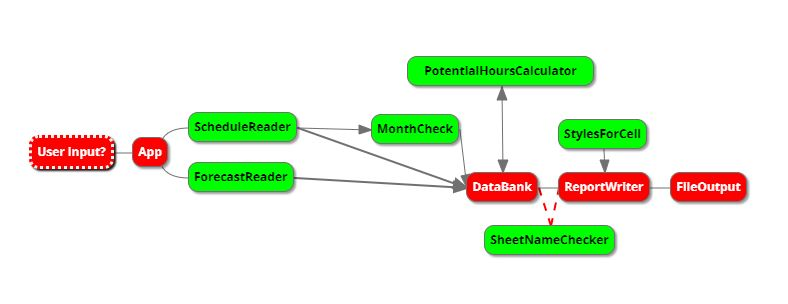
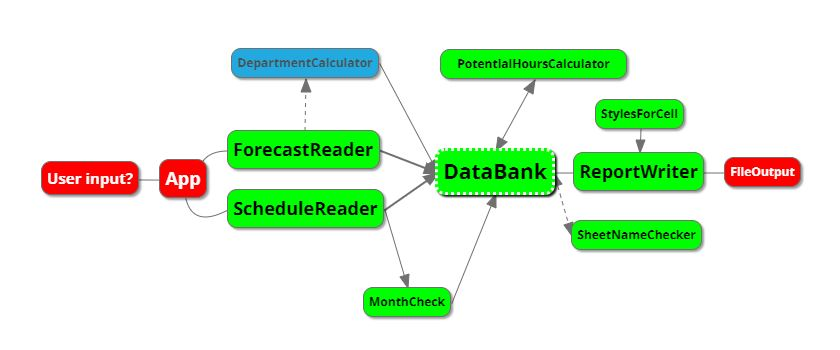
added method to write ALL retail departments

diff --git a/src/test/java/org/AgendaCheck/AppTest.java b/src/test/java/org/AgendaCheck/AppTest.java
@@ -1,11 +1,12 @@
 package org.AgendaCheck;
 
+import org.apache.poi.openxml4j.exceptions.InvalidFormatException;
+import org.apache.poi.openxml4j.opc.OPCPackage;
 import org.apache.poi.xssf.usermodel.XSSFWorkbook;
 import org.junit.Before;
 import org.junit.Test;
 
 import java.io.File;
-import java.io.FileInputStream;
 import java.io.FileOutputStream;
 import java.io.IOException;
 
@@ -18,10 +19,15 @@ public class AppTest {
     }
 
     @Test
-    public void shouldCreateReportForJune() throws IOException {
+    public void shouldCreateReportForJune() throws IOException, InvalidFormatException {
 
-        XSSFWorkbook schedule = new XSSFWorkbook(new FileInputStream("godzinyCzerwiec.xlsx"));
-        XSSFWorkbook forecast = new XSSFWorkbook(new FileInputStream("643_Gessef 2020.xlsx"));
+        OPCPackage scheduleInput = OPCPackage.open(new File("SampleInputFiles/godzinyCzerwiec.xlsx"));
+        XSSFWorkbook schedule = new XSSFWorkbook(scheduleInput);
+        scheduleInput.close();
+
+        OPCPackage forecastInput = OPCPackage.open(new File("SampleInputFiles/643_Gessef 2020.xlsx"));
+        XSSFWorkbook forecast = new XSSFWorkbook(forecastInput);
+        forecastInput.close();
 
         XSSFWorkbook report = new XSSFWorkbook();
 
@@ -30,17 +36,23 @@ public class AppTest {
         DataBank dataBank = new DataBank(scheduleReader, forecastReader);
         ReportWriter reportWriter = new ReportWriter(report, dataBank);
 
-
+        reportWriter.writeStoreSheet();
+        reportWriter.writeAllDepartmentsSheets();
 
         report.write(new FileOutputStream("TestResults/Czerwiec643.xlsx"));
         report.close();
     }
 
     @Test
-    public void shouldCreateReportForMay() throws IOException {
+    public void shouldCreateReportForMay() throws IOException, InvalidFormatException {
 
-        XSSFWorkbook schedule = new XSSFWorkbook(new FileInputStream("godzinyMaj.xlsx"));
-        XSSFWorkbook forecast = new XSSFWorkbook(new FileInputStream("643_Gessef 2020.xlsx"));
+        OPCPackage scheduleInput = OPCPackage.open(new File("SampleInputFiles/godzinyMaj.xlsx"));
+        XSSFWorkbook schedule = new XSSFWorkbook(scheduleInput);
+        scheduleInput.close();
+
+        OPCPackage forecastInput = OPCPackage.open(new File("SampleInputFiles/643_Gessef 2020.xlsx"));
+        XSSFWorkbook forecast = new XSSFWorkbook(forecastInput);
+        forecastInput.close();
 
         XSSFWorkbook report = new XSSFWorkbook();
 
@@ -49,18 +61,23 @@ public class AppTest {
         DataBank dataBank = new DataBank(scheduleReader, forecastReader);
         ReportWriter reportWriter = new ReportWriter(report, dataBank);
 
-
-
+        reportWriter.writeStoreSheet();
+        reportWriter.writeAllDepartmentsSheets();
 
         report.write(new FileOutputStream("TestResults/Maj643.xlsx"));
         report.close();
     }
 
     @Test
-    public void shouldCreateReportForMayForStore729() throws IOException {
+    public void shouldCreateReportForMayForStore729() throws IOException, InvalidFormatException {
 
-        XSSFWorkbook schedule = new XSSFWorkbook(new FileInputStream("godzinyMaj.xlsx"));
-        XSSFWorkbook forecast = new XSSFWorkbook(new FileInputStream("729 Gessef 2020.xlsx"));
+        OPCPackage scheduleInput = OPCPackage.open(new File("SampleInputFiles/godzinyMaj729.xlsx"));
+        XSSFWorkbook schedule = new XSSFWorkbook(scheduleInput);
+        scheduleInput.close();
+
+        OPCPackage forecastInput = OPCPackage.open(new File("SampleInputFiles/729 Gessef 2020.xlsx"));
+        XSSFWorkbook forecast = new XSSFWorkbook(forecastInput);
+        forecastInput.close();
 
         XSSFWorkbook report = new XSSFWorkbook();
 
@@ -69,17 +86,23 @@ public class AppTest {
         DataBank dataBank = new DataBank(scheduleReader, forecastReader);
         ReportWriter reportWriter = new ReportWriter(report, dataBank);
 
-
+        reportWriter.writeStoreSheet();
+        reportWriter.writeAllDepartmentsSheets();
 
         report.write(new FileOutputStream("TestResults/Maj729.xlsx"));
         report.close();
     }
 
     @Test
-    public void shouldCreateReportForJuneForStore729() throws IOException {
+    public void shouldCreateReportForJuneForStore729() throws IOException, InvalidFormatException {
 
-        XSSFWorkbook schedule = new XSSFWorkbook(new FileInputStream("godzinyCzerwiec.xlsx"));
-        XSSFWorkbook forecast = new XSSFWorkbook(new FileInputStream("729 Gessef 2020.xlsx"));
+        OPCPackage scheduleInput = OPCPackage.open(new File("SampleInputFiles/godzinyCzerwiec729.xlsx"));
+        XSSFWorkbook schedule = new XSSFWorkbook(scheduleInput);
+        scheduleInput.close();
+
+        OPCPackage forecastInput = OPCPackage.open(new File("SampleInputFiles/729 Gessef 2020.xlsx"));
+        XSSFWorkbook forecast = new XSSFWorkbook(forecastInput);
+        forecastInput.close();
 
         XSSFWorkbook report = new XSSFWorkbook();
 
@@ -88,13 +111,11 @@ public class AppTest {
         DataBank dataBank = new DataBank(scheduleReader, forecastReader);
         ReportWriter reportWriter = new ReportWriter(report, dataBank);
 
-
-
+        reportWriter.writeStoreSheet();
+        reportWriter.writeAllDepartmentsSheets();
 
         report.write(new FileOutputStream("TestResults/Czerwiec729.xlsx"));
         report.close();
     }
-
-
 
 }

diff --git a/src/main/java/org/AgendaCheck/ReportWriter.java b/src/main/java/org/AgendaCheck/ReportWriter.java
@@ -7,6 +7,7 @@ import org.apache.poi.xssf.usermodel.XSSFWorkbook;
 
 import java.util.List;
 import java.util.Map;
+import java.util.Set;
 
 public class ReportWriter {
     private final XSSFWorkbook report;
@@ -20,8 +21,8 @@ public class ReportWriter {
         stylesForCell = StylesForCell.createCellStyles(report);
     }
 
-    public XSSFSheet createReportSheet(String sheetName) {
-        return report.createSheet(sheetName);
+    private void createReportSheet(String sheetName) {
+        report.createSheet(sheetName);
     }
 
     private void createRows(XSSFSheet reportSheet) {
@@ -75,7 +76,10 @@ public class ReportWriter {
         writeColumn("Różnica godzin", columnNrToWrite, dailyDifferenceInHoursToPerfectOnes, stylesForCell.get("defaultDoubleCellStyle"), reportSheet);
     }
 
-    public void writeStoreSheet(XSSFSheet reportSheet) {
+    public void writeStoreSheet() {
+        createReportSheet("Sklep");
+        XSSFSheet reportSheet = report.getSheet("Sklep");
+
         writeFirstColumnDays(reportSheet);
         writeForthColumnHours(reportSheet);
         writeFifthColumnHoursShare(reportSheet);
@@ -86,6 +90,9 @@ public class ReportWriter {
     }
 
     private <T> void writeColumn(String columnName, int columnNr, List<T> dataList, CellStyle mainStyle, XSSFSheet reportSheet) {
+        if (dataList.isEmpty()){
+            return;
+        }
 
         XSSFCell titleOfTurnOverColumn = reportSheet.getRow(1).createCell(columnNr);
         titleOfTurnOverColumn.setCellValue(columnName);
@@ -156,15 +163,35 @@ public class ReportWriter {
         writeColumn("Różnica godzin", columnNrToWrite, dailyDifferenceInHoursToPerfectOnes, stylesForCell.get("defaultDoubleCellStyle"), reportSheet);
     }
 
-    public void writeDepartmentSheet(String departmentNameFromForeCast, String departmentNameFromSchedule, XSSFSheet reportSheet) {
+    private void writeSingleDepartmentSheet(String departmentName, XSSFSheet reportSheet) {
 
         writeFirstColumnDays( reportSheet);
-        writeSecondDepartmentColumn(departmentNameFromForeCast, reportSheet);
+        writeSecondDepartmentColumn(departmentName, reportSheet);
         writeThirdColumnShareOfTurnOver(reportSheet);
-        writeForthDepartmentColumnHours(departmentNameFromSchedule, reportSheet);
-        writeFifthDepartmentColumnHoursShare(departmentNameFromSchedule, reportSheet);
-        writeSixthDepartmentColumnPerfectHours(departmentNameFromSchedule, reportSheet);
-        writeSeventhDepartmentColumnDifferenceInHours(departmentNameFromSchedule, reportSheet);
+        writeForthDepartmentColumnHours(departmentName, reportSheet);
+        writeFifthDepartmentColumnHoursShare(departmentName, reportSheet);
+        writeSixthDepartmentColumnPerfectHours(departmentName, reportSheet);
+        writeSeventhDepartmentColumnDifferenceInHours(departmentName, reportSheet);
+    }
+
+    public void writeAllDepartmentsSheets(){
+        Map<String, Double> turnover = dataBank.getMonthlyDepartmentTurnOver();
+        Map<String, List<Double>> hours = dataBank.getDailyDepartmentHoursByName();
+
+        DepartmentNameChecker.changeDepartmentNamesFromScheduleToThoseFromForecast(turnover, hours);
+
+        Set<String> departmentNames = turnover.keySet();
+
+        for (String departmentName : departmentNames) {
+
+            if (!hours.containsKey(departmentName)){
+                continue;
+            }
+
+            createReportSheet(departmentName);
+            writeSingleDepartmentSheet(departmentName, report.getSheet(departmentName));
+        }
+
     }
 
 

diff --git a/src/main/java/org/AgendaCheck/App.java b/src/main/java/org/AgendaCheck/App.java
@@ -2,7 +2,6 @@ package org.AgendaCheck;
 
 import org.apache.poi.openxml4j.exceptions.InvalidFormatException;
 import org.apache.poi.openxml4j.opc.OPCPackage;
-import org.apache.poi.xssf.usermodel.XSSFSheet;
 import org.apache.poi.xssf.usermodel.XSSFWorkbook;
 
 import java.io.File;
@@ -28,13 +27,8 @@ public class App {
         DataBank dataBank = new DataBank(scheduleReader, forecastReader);
         ReportWriter reportWriter = new ReportWriter(report, dataBank);
 
-
-        XSSFSheet store = reportWriter.createReportSheet("Sklep");
-        reportWriter.writeStoreSheet(store);
-
-        XSSFSheet department = reportWriter.createReportSheet("BieganieOXELO");
-        reportWriter.writeDepartmentSheet("BieganieOXELO", "(643.8) Bieganie", department);
-
+        reportWriter.writeStoreSheet();
+        reportWriter.writeAllDepartmentsSheets();
 
         report.write(new FileOutputStream("SampleOutputReport.xlsx"));
         report.close();

diff --git a/README.md b/README.md
@@ -20,14 +20,13 @@ It takes data from to .xlsx files and creates new report.
 
 # Główne założenia
 
-- program pobiera rozkładu godzin na dni miesiąca i konsolidajce z pliku xlsx (pilotaż),
-- program pobiera dane z pilotowanego dzinnego obrotu z pliku xlsx,
-- dzieli dane na konsolidacje i sklep
-- zestawia je ze sobą alertując niedoinwestowane i przeinwestowane dni pod względem godzin,
-- sugeruje zmianę ilości godzin,
-- a może zrobnimy z niego bota podbiętego pod gmaila? eStah po otrzymaniu plików w załaczniku odsyłałby raport.
+- program creates report for whole store and every retail department,
+- program takes schedule hours and forcasted turnover from two .xlsx files,
+- names of department often vary in files (for exemple "Mountains" in one file can be "hiking" in another), program matches them.
+- program sugest changes in schedule to better fit forecasted turnover,
 
 # To do
 
 - stworzyć reguły pod zakłądki dla POK i administracji
+- zmienić klasę cellStyle z mapy na getery
 - dodać godziny wg potencjału eko - oderwane od godzin sektora (pamiętaj o odjęciu administracji i kas)
